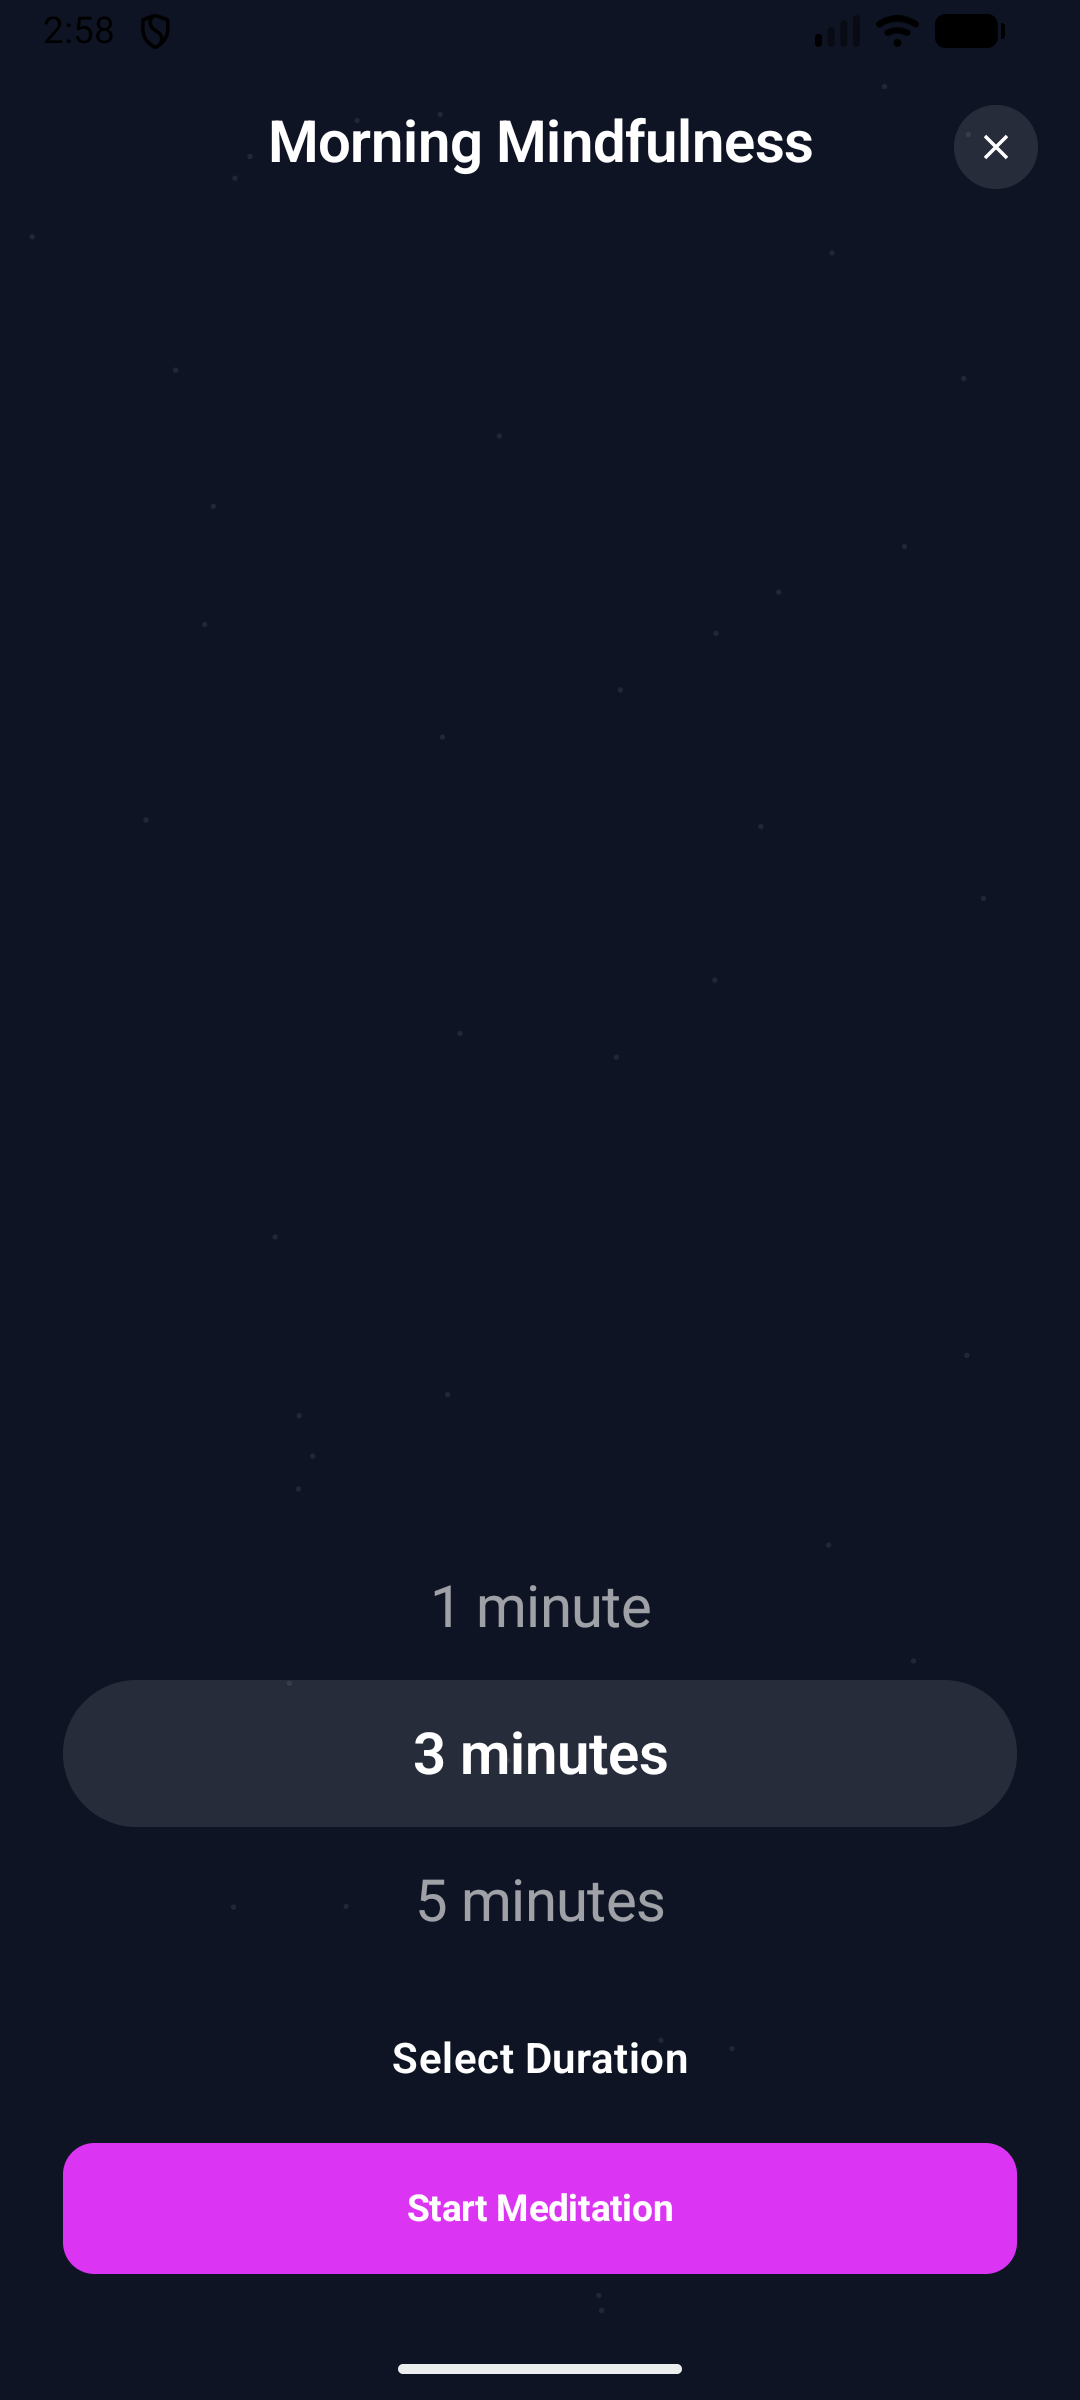
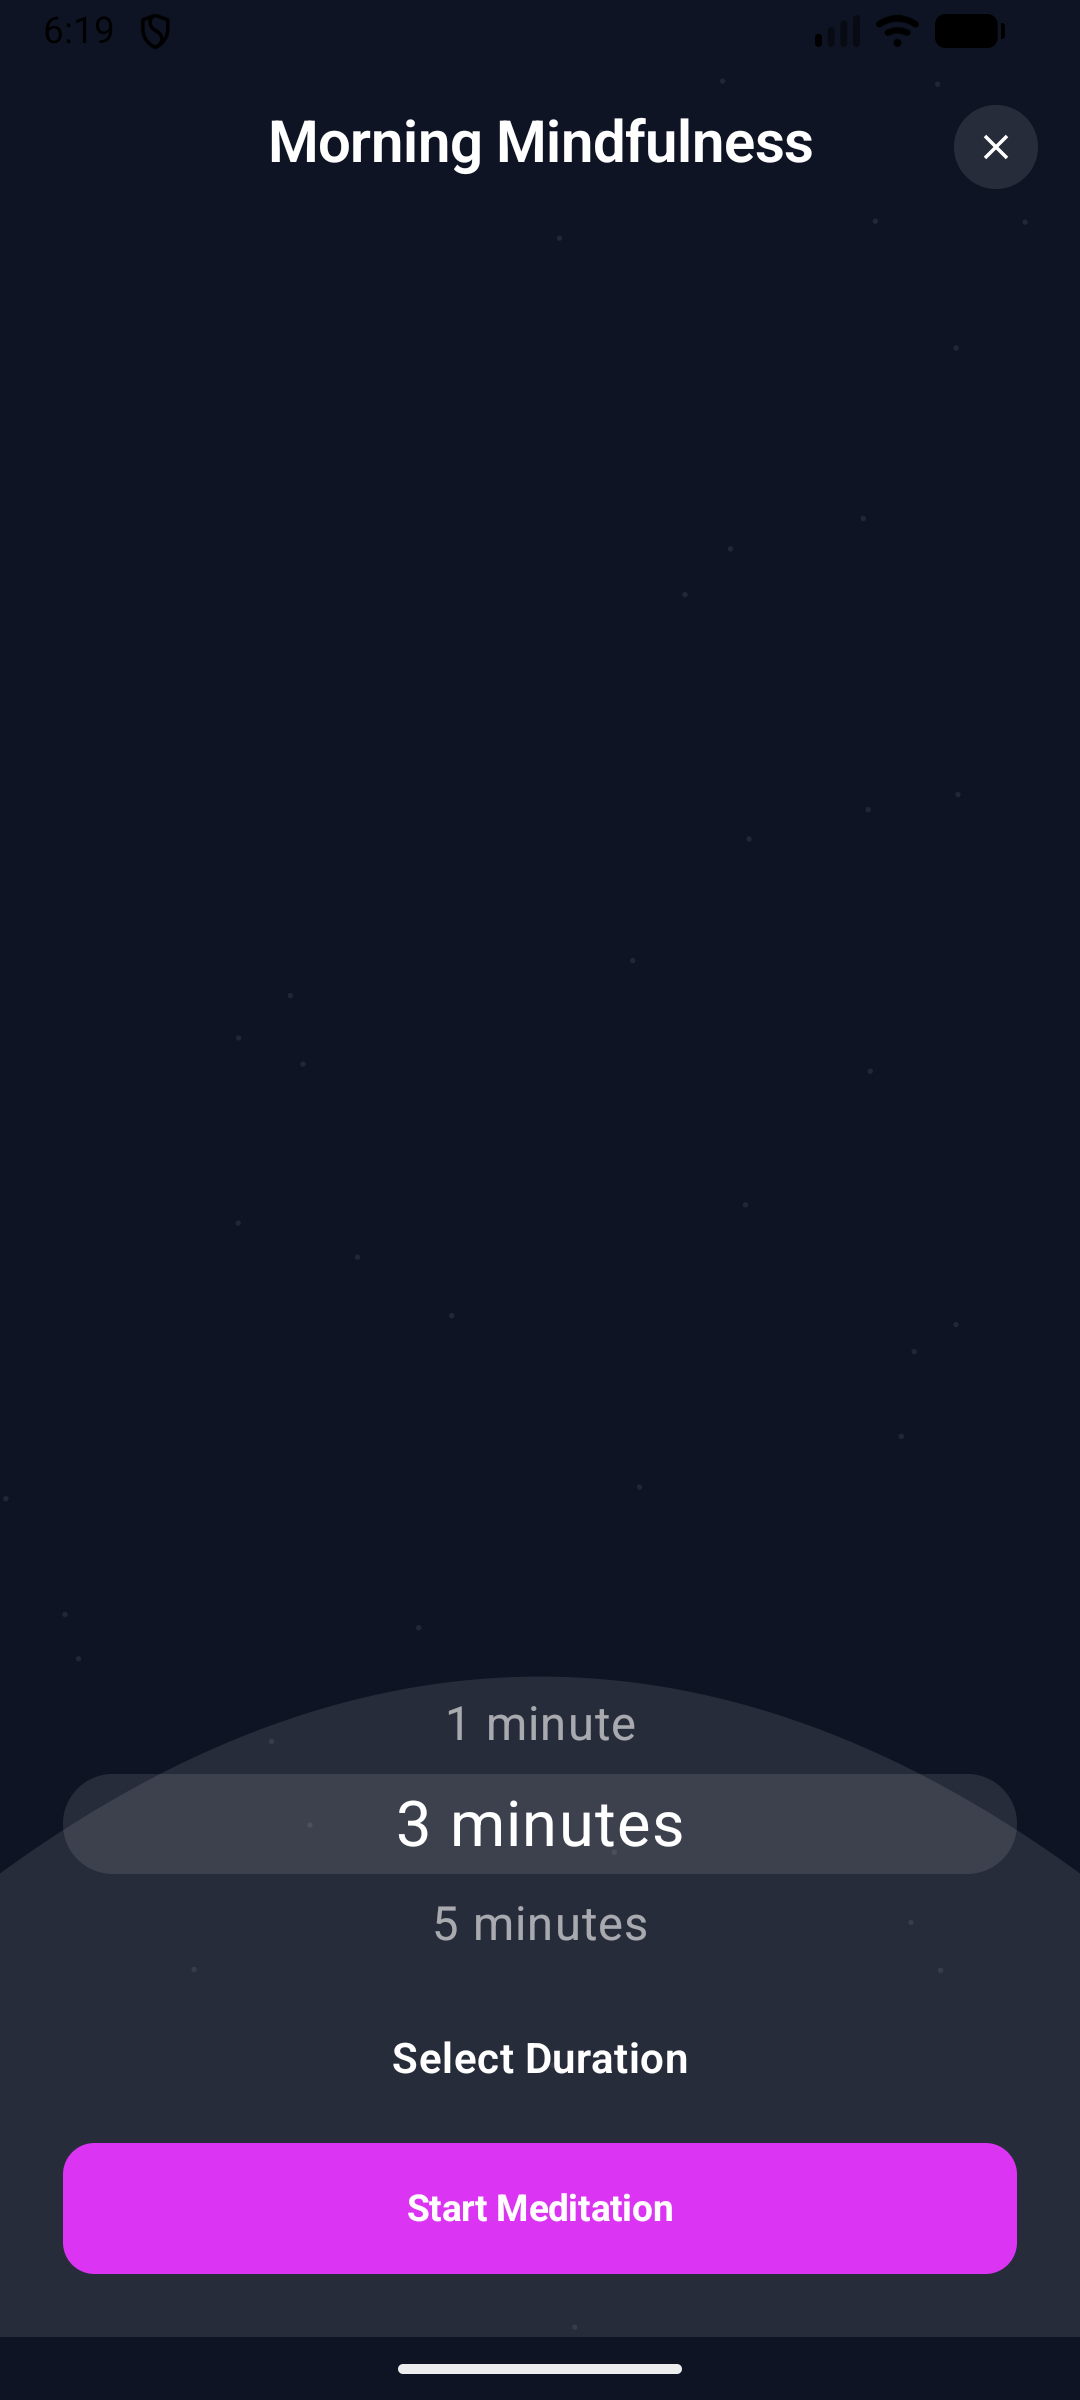
fix(android): draw the duration sheet's curved dome
Ports iOS CustomTopRoundedShape (quad curve filled with toolbarBackground)
behind the duration wheel, so the sheet reads as a drum instead of a flat
list. Wheel rows drop to 38dp with the centre row at 24sp against 18sp,
matching the picker's perspective, and lose the bold weight iOS does not use.

Closes the last known non-premium visual gap.

Changed region(s): [[0.0611, 0.7188, 0.9472, 0.8125], [0.4583, 0.6562, 0.6111, 0.6875], [0.3972, 0.6562, 0.4278, 0.6875]]

diff --git a/Android/app/src/main/java/com/mn/android/presentation/meditate/ui/BreathingSessionViews.kt b/Android/app/src/main/java/com/mn/android/presentation/meditate/ui/BreathingSessionViews.kt
@@ -42,8 +42,10 @@ import androidx.compose.runtime.Composable
 import androidx.compose.ui.Alignment
 import androidx.compose.ui.Modifier
 import androidx.compose.ui.draw.clip
+import androidx.compose.ui.draw.drawBehind
 import androidx.compose.ui.geometry.Offset
 import androidx.compose.ui.graphics.Color
+import androidx.compose.ui.graphics.Path
 import androidx.compose.ui.graphics.drawscope.Stroke
 import androidx.compose.ui.graphics.vector.ImageVector
 import androidx.compose.ui.platform.LocalConfiguration
@@ -84,33 +86,49 @@ internal fun DurationSheet(
         scrimColor = Color.Transparent,
         dragHandle = null,
     ) {
+        val domeColor = MnTheme.toolbarBackground
         Column(
-            Modifier.padding(horizontal = 24.dp),
+            Modifier
+                .drawBehind {
+                    // iOS `CustomTopRoundedShape`: a quad-curved dome behind the
+                    // sheet, apex ~65pt, shoulders at 140pt, filled with
+                    // `toolbarBackground`.
+                    val shoulder = 140.dp.toPx()
+                    val apex = -10.dp.toPx()
+                    val path = Path().apply {
+                        moveTo(0f, size.height)
+                        lineTo(0f, shoulder)
+                        quadraticBezierTo(size.width / 2f, apex, size.width, shoulder)
+                        lineTo(size.width, size.height)
+                        close()
+                    }
+                    drawPath(path, domeColor)
+                }
+                .padding(horizontal = 24.dp),
             horizontalAlignment = Alignment.CenterHorizontally,
         ) {
             Spacer(Modifier.height(64.dp))
             meditationDurations.forEach { d ->
                 val mins = durationMinutes(d)
                 val isSelected = d == selected
-                // iOS wheel picker: selection is a wide, edge-to-edge rounded
-                // pill behind the chosen row; all rows share one text size and
-                // only colour/weight marks the selection.
+                // iOS wheel picker: the centre row is larger and brighter, the
+                // selection pill sits behind it.
                 Box(
                     Modifier
                         .fillMaxWidth()
-                        .height(56.dp)
+                        .height(38.dp)
                         .clickable { onSelected(d) }
                         .background(
                             if (isSelected) MnTheme.divider else Color.Transparent,
-                            RoundedCornerShape(28.dp),
+                            RoundedCornerShape(19.dp),
                         ),
                     contentAlignment = Alignment.Center,
                 ) {
                     Text(
                         if (mins == 1) "1 minute" else "$mins minutes",
                         color = if (isSelected) MnTheme.textPrimary else MnTheme.textSecondary,
-                        style = MaterialTheme.typography.titleLarge,
-                        fontWeight = if (isSelected) FontWeight.SemiBold else FontWeight.Normal,
+                        fontSize = if (isSelected) 24.sp else 18.sp,
+                        fontWeight = FontWeight.Normal,
                         textAlign = TextAlign.Center,
                     )
                 }

diff --git a/docs/ui-parity/README.md b/docs/ui-parity/README.md
@@ -46,8 +46,9 @@ while fixing them. The deltas that mattered are listed below.
 - Progress capsule was a Material `Button` that centred its fill — this produced a vertical
   stripe instead of a growing bar. Now a plain `Box` + `clickable` with the fill anchored
   `CenterStart`, colored by the current phase.
-- Duration sheet: full-width 56dp pill, uniform `titleLarge` rows, pluralized labels
-  ("1 minute" / "3 minutes"), transparent container and scrim so the wheel floats.
+- Duration sheet: the iOS `CustomTopRoundedShape` dome (quad curve, `toolbarBackground`)
+  is drawn behind the sheet; rows are 38dp with the centre row enlarged (24sp vs 18sp)
+  to read as a drum, plus pluralized labels, a transparent container and scrim.
 - Completion: no top bar and no close button, `CheckCircle`, 32sp "Well Done!",
   bottom-pinned actions.
 - Notes: search field lost its magnifier and hairline borders; Add Note is a shadowed pill.
@@ -68,5 +69,4 @@ while fixing them. The deltas that mattered are listed below.
   counterpart.
 - **Rings animation mode** — `BreathingRings` mirrors iOS `ConcentricRing` (5 rings,
   `120 + i*30` base, ×`1 + 0.3(i+1)` expansion), but only the pulse mode was captured;
-  the rings path has not been compared frame-by-frame.- **Duration wheel curvature** — the iOS wheel is a drum; Compose shows a flat list. Rows
-  and selection pill match, the perspective curvature does not.
+  the rings path has not been compared frame-by-frame.
